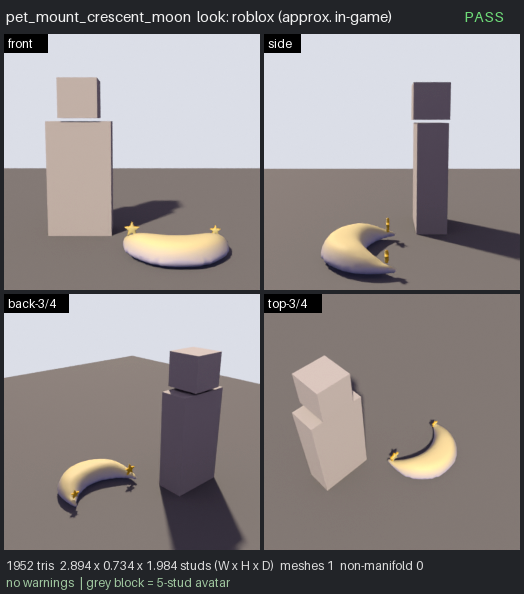
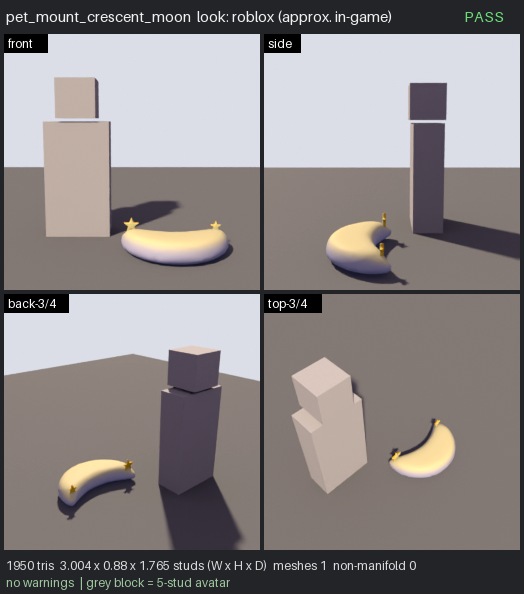
fix(modeling-kit): moon mount seats the slime on its flat band
The game puts the pet at the bbox centre, which sat on the band's inner
slope with the slime's back over the bite. The bite is now bigger and further
back, so the horn tips end further forward and the bbox centre lands well
inside the band; the flat top is centred there (0.62-0.63, seat 0.63). The
stars sit in the horns, and the star height search has a default.

diff --git a/shared/modeling-kit/models/_pet_mounts_extra.py b/shared/modeling-kit/models/_pet_mounts_extra.py
@@ -111,7 +111,10 @@ def crescent_moon():
     on the thick front band; the slim horns sweep round behind it, low, so nothing rises up round the pet.
     Pale lemon on top, cool silver sides (warm gold and a puffy, lumpy body read as a croissant), a star on each horn.
     Built at its final size (NOFIT)."""
-    R, HC, HR = 1.48, 1.2, 1.45  # outer disc radius; the bite: a disc centred at y = HC with radius HR
+    # outer disc radius; the bite: a disc centred at y = HC with radius HR. The bite sits far back so the band is thick
+    # under the bbox centre, where the game puts the pet: with the band's inner edge at y = HC - HR = -0.25 the horn tips
+    # must stay forward (y ~0.4), which puts the bbox centre ~0.3 inside the band. A big, far bite keeps the horns slim.
+    R, HC, HR = 1.48, 1.7, 1.95
 
     def depth(x, y):  # how far (x, y) is inside the crescent (distance to the nearer edge), < 0 outside
         return min(R - math.hypot(x, y), math.hypot(x, y - HC) - HR)
@@ -124,14 +127,16 @@ def crescent_moon():
             d = depth(x, y)
             if d > 0.05:
                 # balls shrink toward the edges and the horns, so the horns taper to sharp points and drop lower
-                r = min(0.26, 0.04 + 0.5 * d)
+                r = min(0.26, 0.05 + 0.7 * d)  # full height from 0.3 in from the edge: a flat band, tapered horns
                 balls.append(Ball((x, y, 0.08 + 0.9 * r), (r, r, r)))
     body = metaball_mesh("Moon", balls, resolution=0.05, tris=1400, smooth=2)
     me = body.data
     z_lo = min(v.co.z for v in me.vertices)
     for v in me.vertices:
         v.co.z -= z_lo
-    raw = max(v.co.z for v in me.vertices if math.hypot(v.co.x, v.co.y + 0.8) < 0.4)  # top of the front band
+    ys = [v.co.y for v in me.vertices]
+    cy = (min(ys) + max(ys)) / 2  # the bbox centre: where the pet sits once finish() recentres the mesh
+    raw = max(v.co.z for v in me.vertices if math.hypot(v.co.x, v.co.y - cy) < 0.3)  # band top under the pet
     K = 0.16
     for v in me.vertices:  # soft flat top, like the cloud
         z0 = raw - K
@@ -154,8 +159,8 @@ def crescent_moon():
     for side, size in ((-1, 1.0), (1, 0.72)):
         tip = max((v.co for v in me.vertices if v.co.x * side > 0), key=lambda c: c.y)  # the horn's tip
         hx, hy = tip.x - side * 0.12, tip.y - 0.22  # a little back from the tip, where the horn still has some body
-        hz = max(v.co.z for v in me.vertices if math.hypot(v.co.x - hx, v.co.y - hy) < 0.18)
-        star = extrude_poly("HornStar%d" % side, [(x * size, z * size) for x, z in pts], 0.1, pos=(hx, hy, hz + 0.15 * size),
+        hz = max((v.co.z for v in me.vertices if math.hypot(v.co.x - hx, v.co.y - hy) < 0.18), default=tip.z)
+        star = extrude_poly("HornStar%d" % side, [(x * size, z * size) for x, z in pts], 0.1, pos=(hx, hy, hz + 0.08 * size),
                             bevel_w=0.03)  # its lower points sink into the horn
         paint(star, lambda co, n: mix(rgb(255, 210, 70), rgb(255, 246, 180), clamp(-n.y * 0.8 + 0.2)))
         parts.append(star)

diff --git a/shared/modeling-kit/models/PET_MOUNTS.md b/shared/modeling-kit/models/PET_MOUNTS.md
@@ -18,7 +18,7 @@ front -Y, 1 BU = 1 stud), same smooth, soft, rounded slime-cartoon style (smooth
 | `pet_mount_ufo` | 1924 | 3.30 x 1.34 x 2.40 | 1.00 | saucer: blue-grey hull, 6 rim lamps, glass dome at the back, cyan underlight |
 | `pet_mount_lily_pad` | 1800 | 3.30 x 1.56 x 2.40 | 0.99 | green lily pad with notch and veins, pink lotus bud, on a water disc |
 | `pet_mount_star_cushion` | 1320 | 3.09 x 0.94 x 2.38 | 0.94 | puffy golden 5-point star pillow, one point to the front, orange rim (own proportions, not stretched to 3.3 x 2.4) |
-| `pet_mount_crescent_moon` | 1952 | 2.89 x 0.73 x 1.98 | 0.56 | pale crescent lying flat like a cushion (a disc with a big bite out of the back): pale lemon top, cool silver sides, lavender belly, slim horns sweeping low behind the pet, a star on each horn (own proportions) |
+| `pet_mount_crescent_moon` | 1950 | 3.00 x 0.88 x 1.77 | 0.63 | pale crescent lying flat like a cushion (a disc with a big bite out of the back): pale lemon top, cool silver sides, lavender belly, slim horns sweeping low behind the pet, a star on each horn (own proportions) |
 | `pet_mount_mushroom` | 1880 | 3.30 x 1.25 x 2.40 | 1.23 | red toadstool cap with 9 raised white spots, striped cream gills, short stout stem |
 | `pet_mount_pancakes` | 1820 | 3.30 x 0.99 x 2.40 | 0.99 | four golden pancakes, off-centre, maple syrup glaze with five drips down the side |
 | `pet_mount_jelly` | 1626 | 3.30 x 2.18 x 2.40 | 1.17 | wobbly three-layer jelly (raspberry, mango, lime), glossy streak, whipped cream + cherry on the front-right corner |
@@ -30,7 +30,7 @@ Seat height = top surface under the mount's centre (what a pet's foot should tou
 lily pad sit at 1.0 to 1.23; the thin leaf (0.25) and carpet (0.30) float much lower because nothing is under them. The game must
 read the seat height per mount; that belongs to the PR that wires mounts into `FollowPets`, not to these models.
 The second set: mushroom 1.23 and jelly 1.17 match the cloud; pancakes and star sit at 0.94 to 0.99, clam and royal cushion
-0.80, hoverboard 0.70, moon 0.56. Height above ~1.3 is decoration beside the seat (rainbow arch, ice shards, flame tufts, lotus bud, leaf rim,
+0.80, moon 0.63, hoverboard 0.70. Height above ~1.3 is decoration beside the seat (rainbow arch, ice shards, flame tufts, lotus bud, leaf rim,
 moon stars, jelly cherry, clam lid).
 
 ## Files

diff --git a/shared/modeling-kit/sheets/pet_mounts_rounds.md b/shared/modeling-kit/sheets/pet_mounts_rounds.md
@@ -82,4 +82,6 @@ Merijn: the slime disappears in the curve (the upright horns wrap round it). The
 | r06 | 1776 | Deeper bite (y 0.95, r 1.2), ball size follows the distance to the edge so the horns taper to points, 2 smooth passes, no dimples. Reads as a crescent, but the star floated (the horn moved). |
 | r07 | 1776 | Star pinned to the horn (found from the mesh, not a fixed point). Merijn: now it looks like a croissant (gold, puffy, fat curled ends). |
 | r08 | 2052 | Pale lemon top, cool silver sides, lavender belly; bigger bite (y 1.2, r 1.45) for slim horns; smaller, flatter balls on a 0.12 grid; a star on each horn. |
-| r09 | 1952 | Decimate target 1400. Final (OK'd by Merijn). |
+| r09 | 1952 | Decimate target 1400. OK'd by Merijn for the look. |
+| r10 | 1952 | Review: the game puts the pet at the bbox centre (y = 0), but the flat top was centred 0.6 in front of it; the slime sat on the band's inner slope (0.57 falling to 0.52) with its back over the bite. Flat top now centred on the bbox centre, bite pushed far back (y 1.7, r 1.7), steeper ball ramp. Seat flat (0.66), but the horns went short and fat (a bean) and the stars floated. |
+| r11 | 1950 | Bite y 1.7, r 1.95: the band's inner edge stays at y -0.25 and the horn tips end further forward (y ~0.4), so the bbox centre lands ~0.4 inside the band; slim horns again. Band flat at 0.62-0.63 from y -0.7 to +0.2 (measured on the exported mesh). Stars sunk into the horns; the star height search has a default. Final. |

diff --git a/shared/modeling-kit/LESSONS.md b/shared/modeling-kit/LESSONS.md
@@ -195,3 +195,4 @@ Format: `- [model/YYYY-MM-DD/bot] lesson` — one concrete, reusable sentence or
 - [pet_mounts] Stars and boards stretched to the 3.3 x 2.4 footprint stop reading; ship them with their own proportions (`NOFIT`) inside the footprint.
 - [kit] `iterate.py --look roblox` runs in parallel clobber each other (shared `out/.tiles`) and can delete tracked `*_roblox.stats.json`: run them one at a time.
 - [pet_mount_crescent_moon] A mount that rises up round the pet (upright crescent horns) swallows the slime; lie it flat so everything around the seat stays lower than the seat. A flat crescent = metaballs on a grid inside "disc minus offset disc", ball radius `min(r_max, a + b * distance_to_edge)` so the horns taper to points; the bite must leave the bbox centre (where the pet sits) on the thick band. Gold + puffy + rounded horn ends reads as a croissant: pale lemon top, cool silver sides, slim sharp horns and stars read as a moon.
+- [pet_mount_crescent_moon] Check the seat where the game puts the pet: at the BBOX CENTRE, measured on the exported mesh (top height along x = 0), not where the shape looks thickest. A crescent's bbox centre sits between its band and its horn tips, so horns that reach far back drag it onto the band's inner slope. Keep the horn tips forward (a big bite far back: tips at y ~0.4 for a band edge at -0.25) and centre the flat-top window on the bbox centre.
